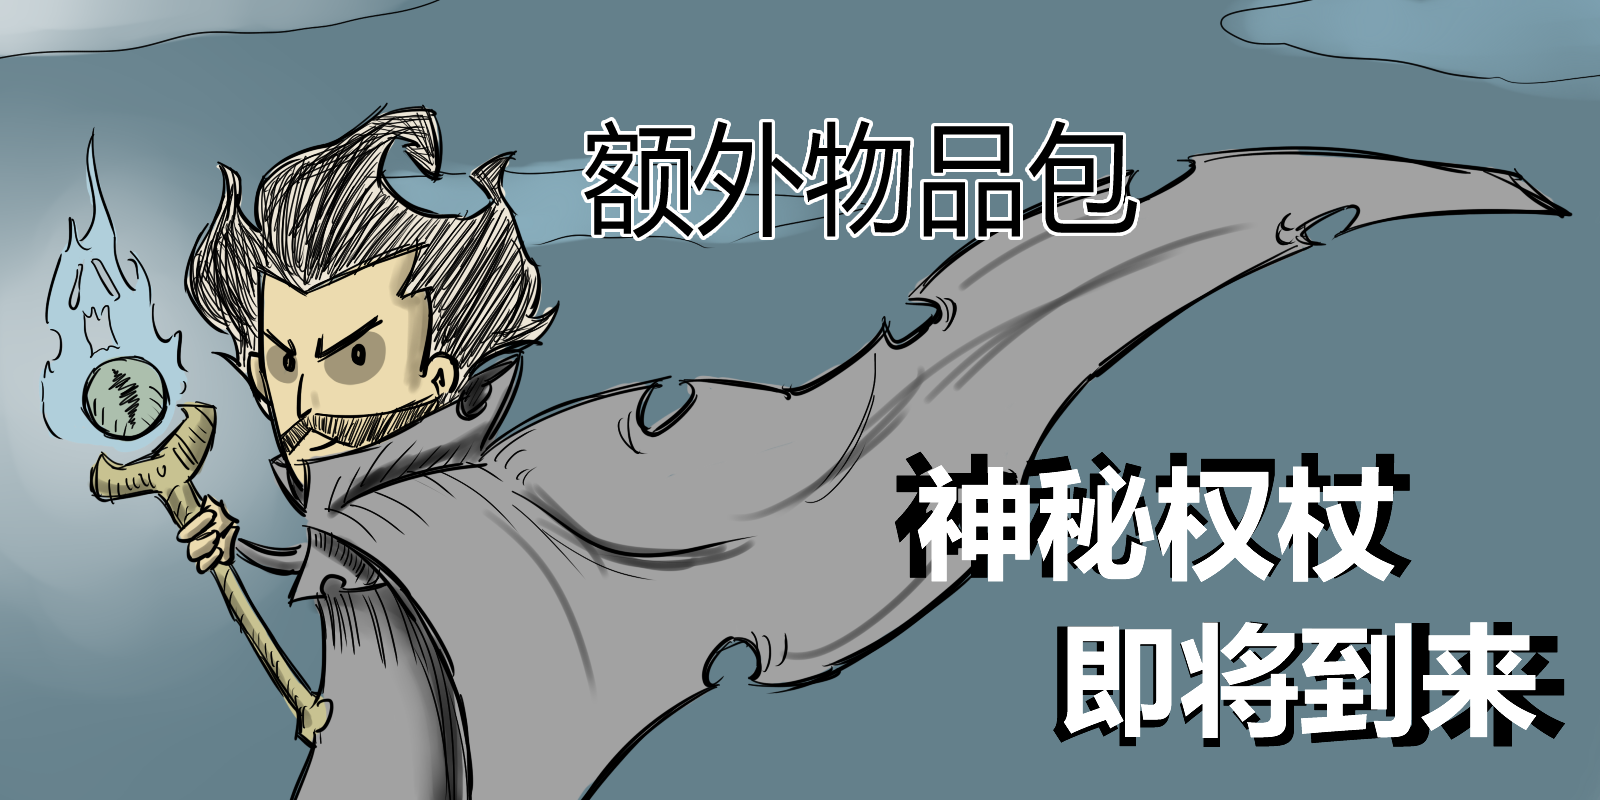
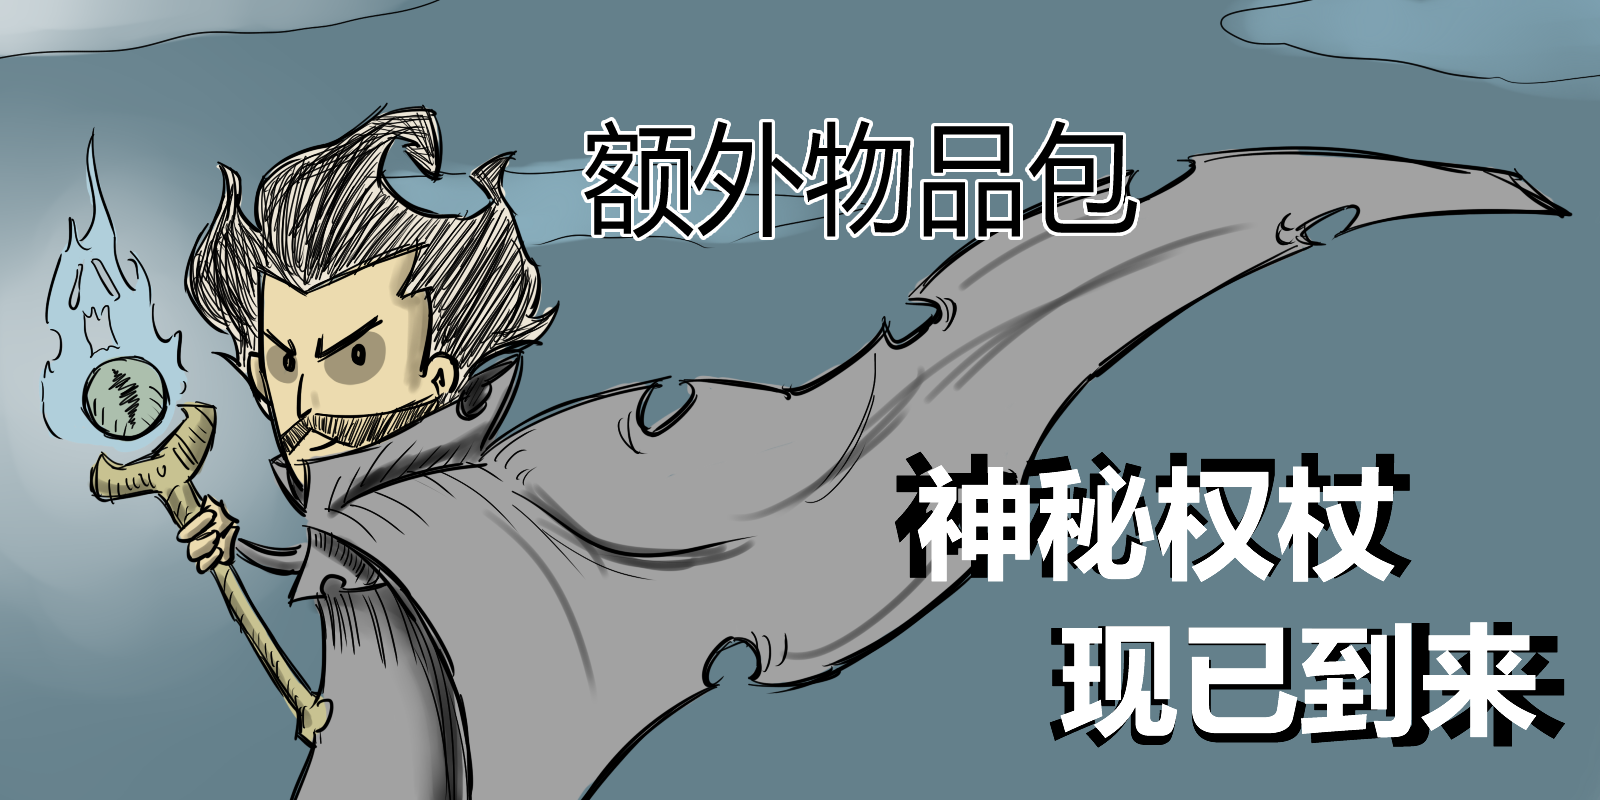
support intro

Changed region(s): [[0.6562, 0.7812, 0.8125, 0.9375]]

diff --git a/gen/introPreview.js b/gen/introPreview.js
@@ -14,8 +14,12 @@ const MAX_WIDTH_COUNT = 9;
 const IMAGES = [
 	['aip_blood_package', 'aip_mine_car'],
 	['incinerator', 'aip_orbit_item', 'aip_nectar_maker', 'aip_woodener'],
-	['dark_observer', 'aip_shadow_paper_package', 'aip_shadow_package'],
-	['popcorngun', 'aip_fish_sword', 'aip_beehave', 'aip_oar_woodead', 'aip_armor_gambler'],
+	['dark_observer', 'aip_shadow_paper_package', 'aip_shadow_package', 'aip_dou_opal', 'aip_leaf_note'],
+	['popcorngun', 'aip_fish_sword', 'aip_beehave', 'aip_oar_woodead', 'aip_armor_gambler', 'aip_dou_scepter'],
+	[
+		'aip_dou_fire_inscription', 'aip_dou_heal_inscription', 'aip_dou_ice_inscription', 'aip_dou_sand_inscription',
+		'aip_dou_area_inscription', 'aip_dou_follow_inscription', 'aip_dou_split_inscription', 'aip_dou_through_inscription',
+	],
 	['aip_horse_head', 'aip_som', 'aip_blue_glasses'],
 	[
 		'chesspiece_aip_doujiang_marble', 'chesspiece_aip_doujiang_stone', 'chesspiece_aip_doujiang_moonglass',
